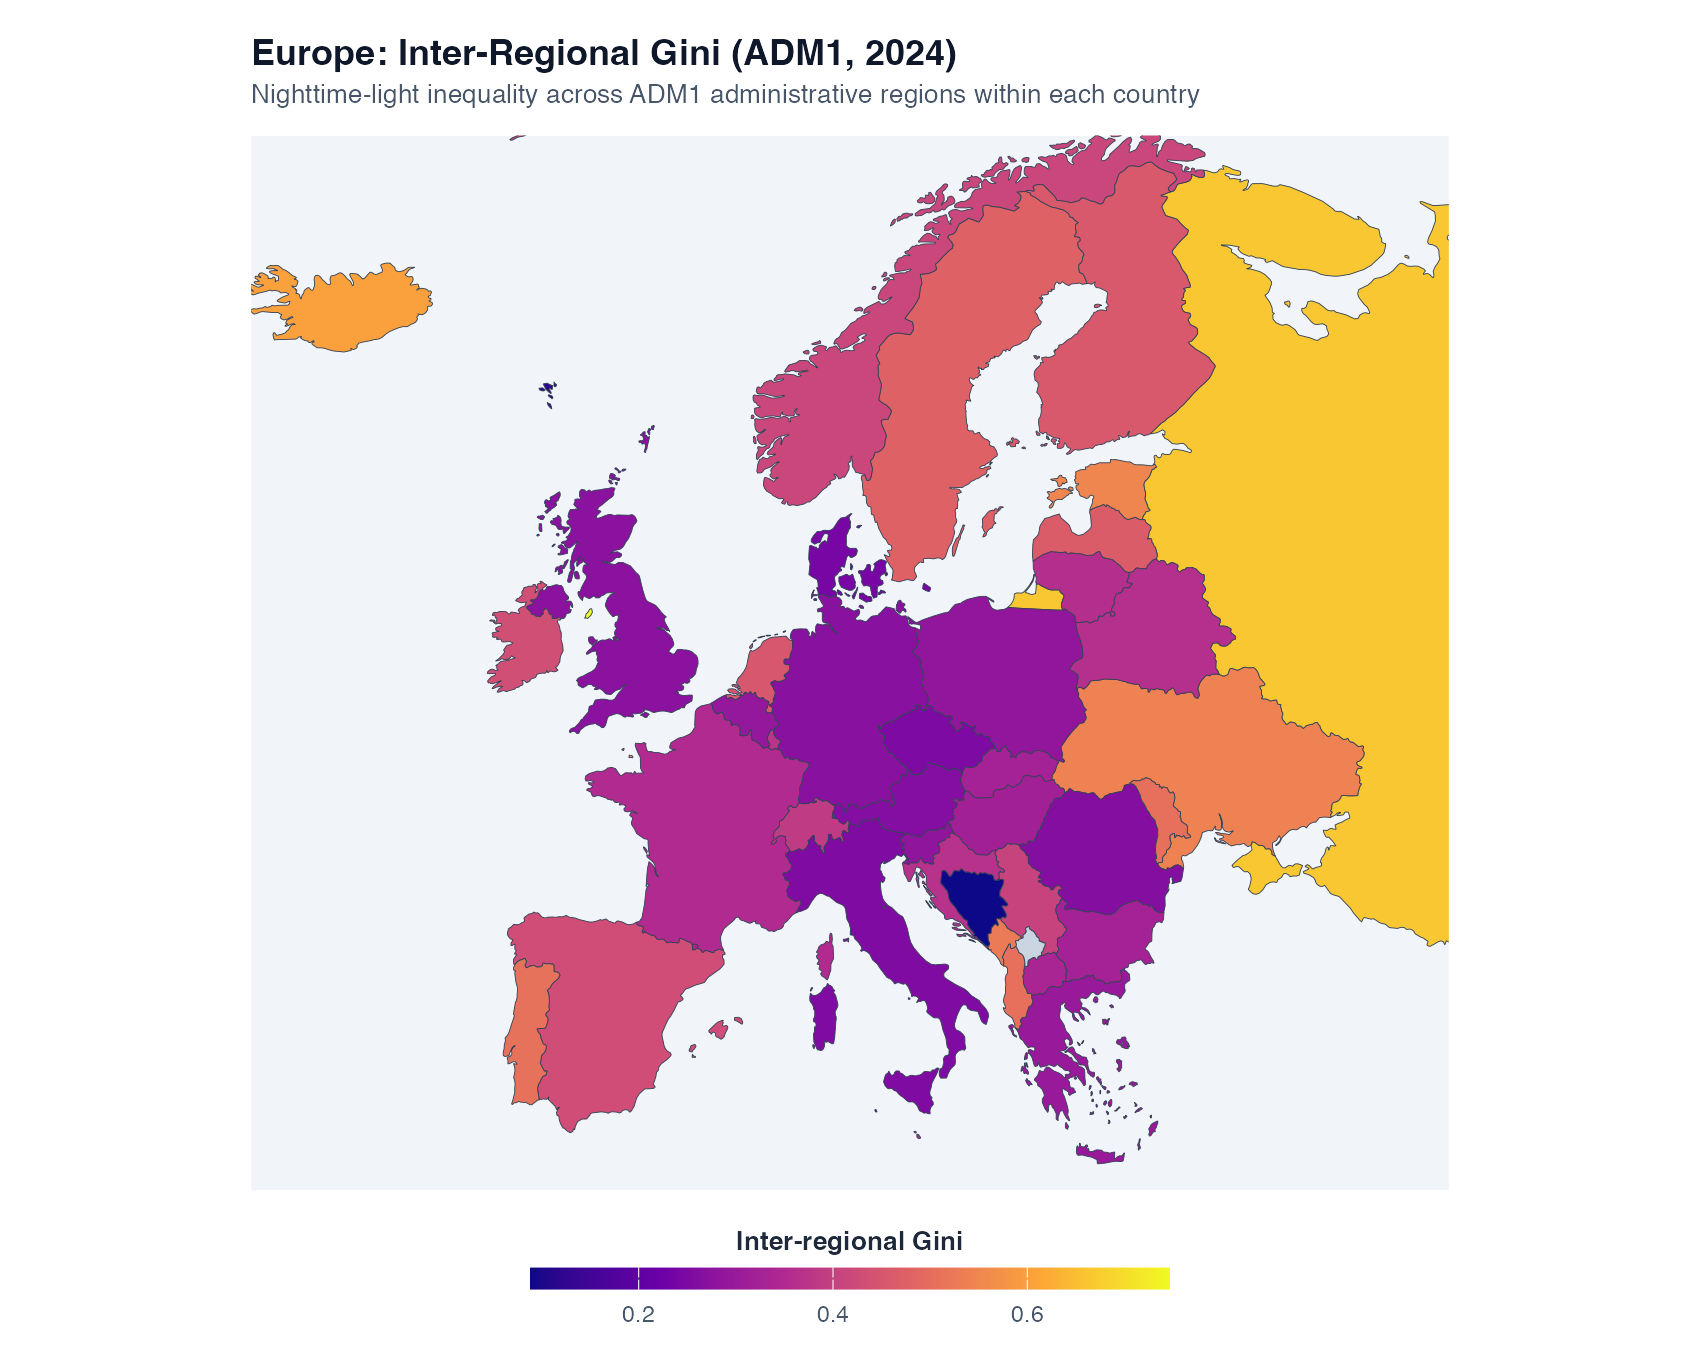
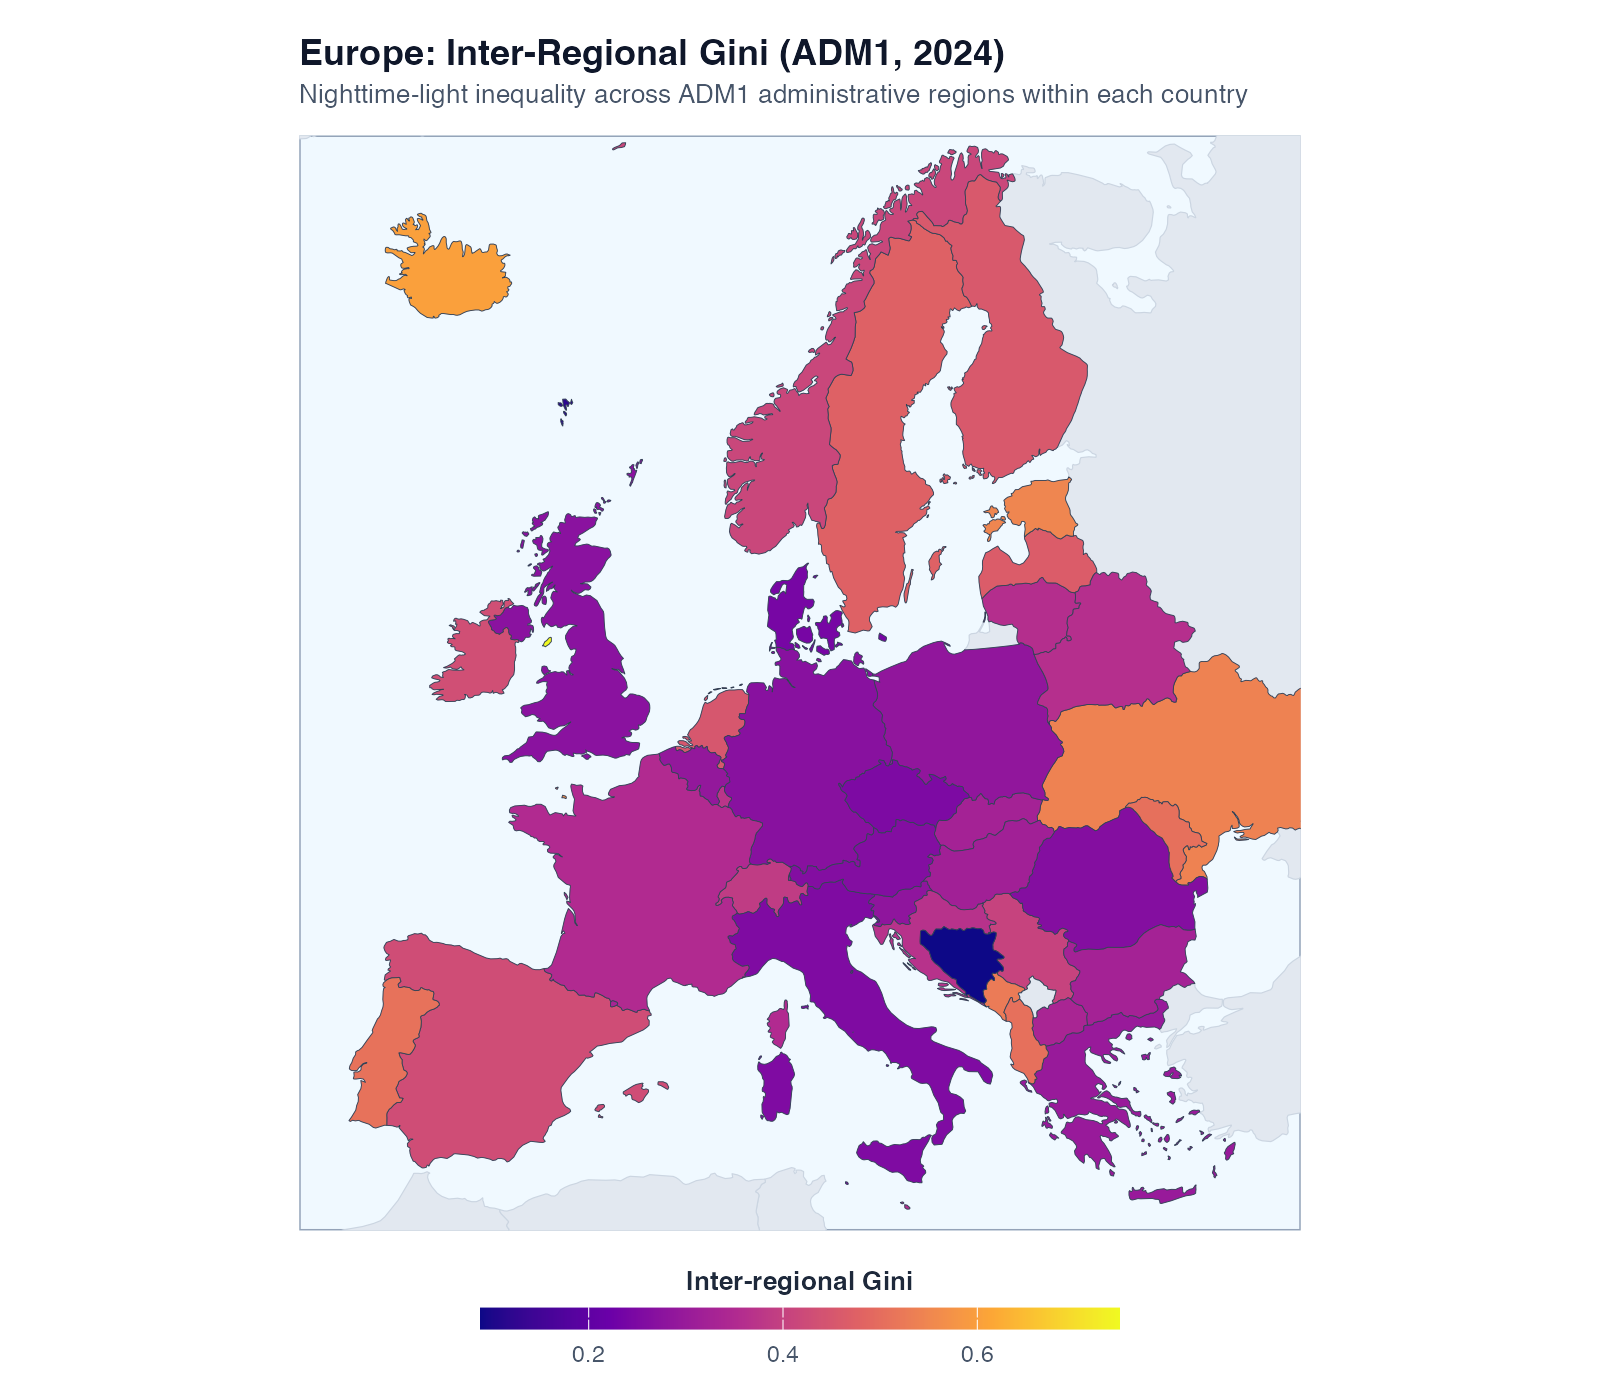
Adopt UN Equal Earth projection for global map and enhance cartographic rendering

diff --git a/README.md b/README.md
@@ -128,25 +128,27 @@ ntl_gini_plot_unit_scatter(level = "adm3", iso3 = "TUN", year = 2024)
 Pass any `sf` polygon object or path to a `.shp`, `.gpkg`, or `.geojson` file:
 
 ```r
-# Global inter-regional Gini at ADM_1 in 2024 (Robinson projection)
-ntl_gini_map_countries("path/to/world_countries.shp", level = "adm1", year = 2024) +
-  ggplot2::coord_sf(crs = "+proj=robin")
+# Global inter-regional Gini at ADM_1 in 2024 (Equal Earth projection, adopted by the UN)
+ntl_gini_map_countries("path/to/world_countries.shp", level = "adm1", year = 2024, globe = TRUE)
 ```
 
 ![Global inter-regional Gini at ADM1 in 2024](man/figures/map_global_between_adm1.png)
 
 ```r
-# Regional subset (Europe, cropped with coord_sf)
-ntl_gini_map_countries(europe_sf, level = "adm1", year = 2024) +
-  ggplot2::coord_sf(xlim = c(-24, 45), ylim = c(34, 71), expand = FALSE) +
+# Regional subset (Europe in ETRS89 / LAEA projection with background context)
+ntl_gini_map_countries(europe_sf, level = "adm1", year = 2024, bg_sf = world_sf) +
+  ggplot2::coord_sf(crs = 3035, xlim = c(2450000, 6200000), ylim = c(1350000, 5450000), expand = FALSE) +
   ggplot2::labs(title = "Europe: Inter-Regional Gini (ADM1, 2024)")
 ```
 
 ![Europe inter-regional Gini at ADM1 in 2024](man/figures/map_europe_between_adm1.png)
 
 ```r
-# Subnational internal spatial Gini across Tunisia's 2,075 Sectors (ADM_4, 2024)
-ntl_gini_map_units("path/to/tun_adm4.gpkg", level = "adm4", iso3 = "TUN", year = 2024)
+# Subnational internal spatial Gini across Tunisia's 2,075 Sectors (ADM_4, 2024) with Governorate overlay
+ntl_gini_map_units(
+  "path/to/tun_adm4.gpkg", level = "adm4", iso3 = "TUN", year = 2024,
+  overlay_sf = "path/to/tun_adm2.gpkg"
+)
 ```
 
 ![Subnational Gini at ADM4 in Tunisia in 2024](man/figures/map_tun_adm4_2024.png)
